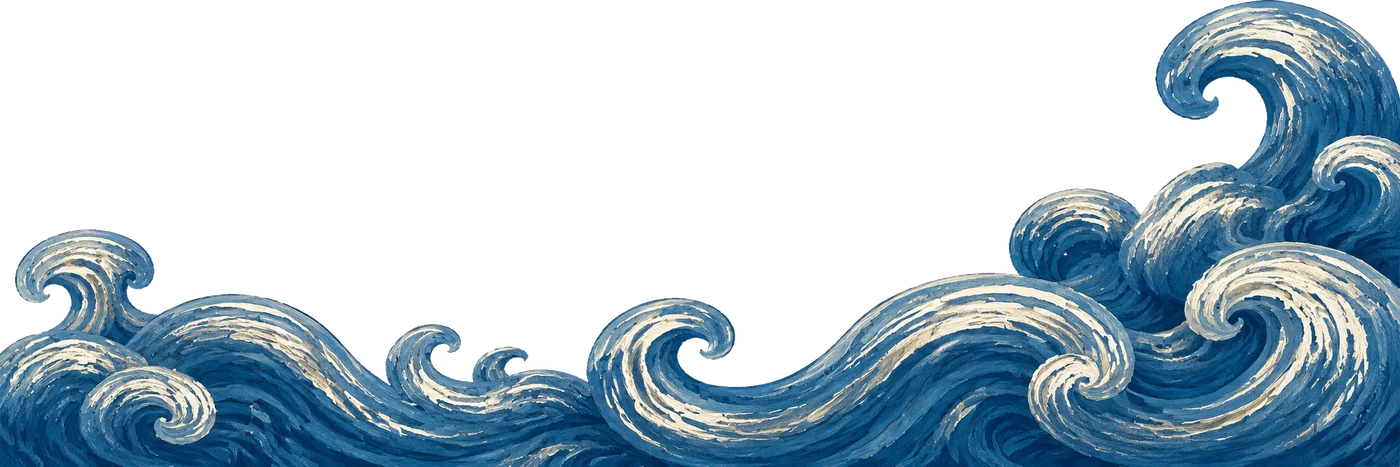
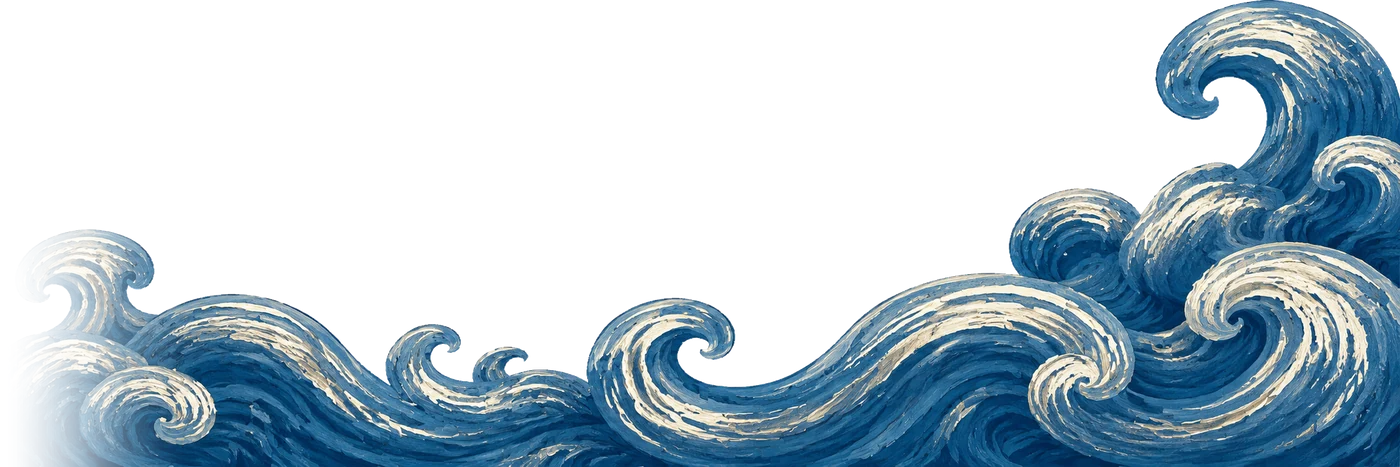
Season decoration: full-screen art layer, no clipping, new sizes
Claude-Session: https://claude.ai/code/session_01K7sh3updA1Gv7rDmww3wbS

Changed region(s): [[0.0, 0.4797, 0.1229, 1.0]]

diff --git a/src/components/SeasonDecor.tsx b/src/components/SeasonDecor.tsx
@@ -2,7 +2,7 @@
 import { viewHeight } from "@/lib/view-height";
 import { memo, useEffect, useLayoutEffect, useMemo, useRef, useState, type CSSProperties, type RefObject } from "react";
 import { SEASON_DECOR as C, DECOR_ART, LAYER_Z } from "@/config/season-decor";
-import { artLayerStyle, decorClip, decorWindow, parseDecorMode, type DecorSeason } from "@/lib/season-decor";
+import { artClip, artLayerStyle, decorClip, decorWindow, parseDecorMode, type DecorSeason } from "@/lib/season-decor";
 import Mannequin from "./Mannequin";
 import type { MannequinSpec } from "@/lib/mannequin";
 import { DECO_BITMAP_SIZE, decoPx, leafMarkup, meadowMarkup, snap, snowMarkup, spotPieces, sunMarkup, sunPx } from "@/lib/season-decor-art";
@@ -37,18 +37,18 @@ function Spots({ kind, width, height }: { kind: "autumn" | "winter"; width: numb
 
 /** painted illustrations (default): plain img layers, absolute inside the group, so no layout shift; all sprites are preloaded once. */
 const ART_SRCS = Object.values(DECOR_ART).flat().map((l) => l.src);
-function ArtLayers({ season, safeTop }: { season: DecorSeason; safeTop: boolean }) {
-  return <>{DECOR_ART[season].map((l) => /* eslint-disable-next-line @next/next/no-img-element */ <img key={l.src} src={l.src} alt="" decoding="async" draggable={false} style={artLayerStyle(l, safeTop)} />)}</>;
+function ArtLayers({ season }: { season: DecorSeason }) {
+  return <>{DECOR_ART[season].map((l) => /* eslint-disable-next-line @next/next/no-img-element */ <img key={l.src} src={l.src} alt="" decoding="async" draggable={false} style={artLayerStyle(l)} />)}</>;
 }
 
-const Art = ({ season, width, height, sun, safeTop, mode }: { season: DecorSeason; width: number; height: number; sun: boolean; safeTop: boolean; mode: "art" | "pixel" }) =>
-  mode === "art" ? <ArtLayers season={season} safeTop={safeTop} /> : season === "summer" ? (sun ? <Sun safeTop={safeTop} /> : null) : season === "spring" ? <Meadow width={width} /> : <Spots kind={season} width={width} height={height} />;
+const Art = ({ season, width, height, sun, safeTop }: { season: DecorSeason; width: number; height: number; sun: boolean; safeTop: boolean }) =>
+  season === "summer" ? (sun ? <Sun safeTop={safeTop} /> : null) : season === "spring" ? <Meadow width={width} /> : <Spots kind={season} width={width} height={height} />;
 
 /** `scroller` = the snap scroller the outfits live in (offset and height are read from it); `seasons[i]` = decoration of outfit i (null = none).
  *  `minis` = outfit preview figures (same clipping, drawn in front of the season art and still behind the products): `specs[i]` is outfit i's figure, `searchOn` places it over the Profile tab.
- *  `className`/`style` give the layer its box (same box as the scroller). `sunFront`: the layer starts under the status/safe area (feed), so the sun is offset by it. Everything sits behind the products (no z-index). */
-function SeasonDecor({ scroller, seasons, minis, className, style, sunFront }: { scroller: RefObject<HTMLElement | null>; seasons: (DecorSeason | null)[] | null; minis?: { specs: MannequinSpec[]; searchOn: boolean } | null; className: string; style?: CSSProperties; sunFront?: boolean }) {
-  const root = useRef<HTMLDivElement>(null);
+ *  `className`/`style` give the figure/pixel layer its box (same box as the scroller). ART mode (default) is a separate layer `artClassName`/`artStyle` = the whole screen (feed: fixed inset-0, like the stripe background), clipped only by the screen edge. `sunFront`: the layer starts under the status/safe area (feed), so the sun is offset by it. Everything sits behind the products (no z-index). */
+function SeasonDecor({ scroller, seasons, minis, className, style, sunFront, artClassName, artStyle }: { scroller: RefObject<HTMLElement | null>; seasons: (DecorSeason | null)[] | null; minis?: { specs: MannequinSpec[]; searchOn: boolean } | null; className: string; style?: CSSProperties; sunFront?: boolean; artClassName?: string; artStyle?: CSSProperties }) {
+  const root = useRef<HTMLDivElement>(null), artBox = useRef<HTMLDivElement>(null), geo = useRef({ off: 0, layerH: 0 });
   const [win, setWin] = useState<number[]>([]);
   const [size, setSize] = useState({ w: 0, h: 0 });
   const mode = useMemo(() => (typeof window === "undefined" ? "art" : parseDecorMode(new URLSearchParams(window.location.search).get("decor"))), []);
@@ -58,11 +58,20 @@ function SeasonDecor({ scroller, seasons, minis, className, style, sunFront }: {
   const apply = () => {   // clip every group to where its outfit is on screen (direct DOM writes)
     const sc = scroller.current, el = root.current; if (!sc || !el) return;
     const h = viewHeight(sc), st = sc.scrollTop;
+    el.querySelectorAll<HTMLElement>(".sd-art").forEach((g) => {
+      const c = artClip(Number(g.dataset.i), st, h, geo.current.off, geo.current.layerH);
+      g.style.clipPath = c ? `inset(${c.top}px 0px ${c.bottom}px 0px)` : "";
+      g.style.visibility = c ? "" : "hidden";
+    });
     el.querySelectorAll<HTMLElement>(".sd-group").forEach((g) => {
       const c = decorClip(Number(g.dataset.i), st, h);
       g.style.clipPath = c ? `inset(${c.top}px 0px ${c.bottom}px 0px)` : "";
       g.style.visibility = c ? "" : "hidden";
     });
+  };
+  const measure = () => {   // where the scroller sits inside the full-screen art layer (only on resize, never per scroll frame)
+    const sc = scroller.current, box = artBox.current; if (!sc || !box) return;
+    geo.current = { off: sc.getBoundingClientRect().top - box.getBoundingClientRect().top, layerH: box.clientHeight };
   };
   const sync = () => {
     const sc = scroller.current; if (!sc) return;
@@ -72,27 +81,31 @@ function SeasonDecor({ scroller, seasons, minis, className, style, sunFront }: {
     apply();
   };
   const syncRef = useRef(sync); syncRef.current = sync;
+  const measureRef = useRef(measure); measureRef.current = measure;
 
   useEffect(() => {
     const sc = scroller.current; if (!sc) return;
-    const on = () => syncRef.current();
+    const on = () => syncRef.current(), onSize = () => { measureRef.current(); on(); };
     sc.addEventListener("scroll", on, { passive: true });
-    const ro = new ResizeObserver(on); ro.observe(sc);
-    on();
+    const ro = new ResizeObserver(onSize); ro.observe(sc); if (artBox.current) ro.observe(artBox.current);
+    onSize();
     return () => { sc.removeEventListener("scroll", on); ro.disconnect(); };
   }, [scroller]);
   useEffect(() => { syncRef.current(); }, [count, seasons, minis]);   // new outfits appended / list replaced
-  useLayoutEffect(() => { apply(); });   // freshly mounted groups get their clip before the first paint
+  useLayoutEffect(() => { measure(); apply(); });   // freshly mounted groups get their clip before the first paint
 
   const shown = win.filter((i) => seasons?.[i] || minis?.specs[i]);
   const group = (i: number, sun: boolean) => (
     <div key={`${i}-${seasons?.[i]}`} data-i={i} className="sd-group absolute inset-0">
-      {seasons?.[i] && <div className="absolute inset-0" style={{ zIndex: LAYER_Z.decor }}><Art season={seasons[i]!} width={size.w} height={size.h} sun={sun} safeTop={!!sunFront} mode={mode} /></div>}
+      {mode === "pixel" && seasons?.[i] && <div className="absolute inset-0" style={{ zIndex: LAYER_Z.decor }}><Art season={seasons[i]!} width={size.w} height={size.h} sun={sun} safeTop={!!sunFront} /></div>}
       {minis?.specs[i] && <div className="absolute inset-0" style={{ zIndex: LAYER_Z.figure }}><Mannequin spec={minis.specs[i]} layerWidth={size.w} searchOn={minis.searchOn} /></div>}
     </div>
   );
   return (
     <div ref={root} aria-hidden style={{ display: "contents" }}>
+      {mode === "art" && <div ref={artBox} className={`pointer-events-none overflow-hidden ${artClassName ?? className}`} style={{ ...(artClassName ? artStyle : style), zIndex: LAYER_Z.decor }}>
+        {shown.filter((i) => seasons?.[i]).map((i) => <div key={`${i}-${seasons?.[i]}`} data-i={i} className="sd-art absolute inset-0"><ArtLayers season={seasons![i]!} /></div>)}
+      </div>}
       <div className={`pointer-events-none ${className}`} style={{ ...style, zIndex: LAYER_Z.figure }}>{shown.map((i) => group(i, true))}</div>
     </div>
   );

diff --git a/src/config/season-decor.ts b/src/config/season-decor.ts
@@ -35,18 +35,23 @@ export const SEASON_DECOR = {
 // Named z-index constants; SeasonDecor, Feed and the layer test use them. The decoration is BACKGROUND: it sits behind the figure and behind every product.
 export const LAYER_Z = { stripe: 0, decor: 5, figure: 10, products: 20, chrome: 30 } as const;
 
-// ART MODE (default since Prompt 82: 5 illustrations): painted sprites instead of the pixel art above (kept as `?decor=pixel`). Files in public/season-decor/, made by
+// ART MODE (default since Prompt 82: illustrations): painted sprites instead of the pixel art above (kept as `?decor=pixel`). Files in public/season-decor/, made by
 // scripts/build-season-decor.py from docs/reference/season-decor-source/*.png (border flood-fill keying, tolerances live in that script).
-// Layer box = the decor area (same box as the feed scroller). Size: widthPct of the area width OR heightPct of the area height (the other side follows the
-// sprite's aspect). offsetXPct / offsetYPct move the sprite from its anchor (positive = right / down, negative = cropped by the edge), in % of the area.
+// Layer box = the WHOLE SCREEN (same full-screen anchoring as the stripe background: behind status bar, header and tab bar). It is clipped only by the real screen edge,
+// never by the content area, the outfit area or LAYOUT_SAFE_MARGIN. Size: widthPct of the SCREEN width OR heightPct of the SCREEN height (the other side follows the
+// sprite's aspect). offsetXPct / offsetYPct move the sprite from its anchor, in % of the screen: positive = right / down for left- and top-anchored sprites,
+// for right- / bottom-anchored ones positive = further out (bleeds off that edge); negative = back inside.
 export type DecorAnchor = "top-left" | "top" | "top-right" | "left" | "right" | "bottom-left" | "bottom" | "bottom-right";
 export type DecorLayer = { src: string; anchor: DecorAnchor; widthPct?: number; heightPct?: number; offsetXPct: number; offsetYPct: number; opacity: number; zIndex: number };
 export const DECOR_ART: Record<"spring" | "summer" | "autumn" | "winter", DecorLayer[]> = {
   summer: [
-    { src: "/season-decor/summer_sun.webp", anchor: "top-left", widthPct: 42, offsetXPct: -10, offsetYPct: -4, opacity: 1, zIndex: 2 },
-    { src: "/season-decor/summer_wave.webp", anchor: "bottom-right", heightPct: 16, offsetXPct: 0, offsetYPct: 0, opacity: 1, zIndex: 1 },
+    { src: "/season-decor/summer_sun.webp", anchor: "top-left", widthPct: 30, offsetXPct: -4, offsetYPct: 18, opacity: 1, zIndex: 2 },   // below the icon row, left edge slightly cropped
+    { src: "/season-decor/summer_wave.webp", anchor: "bottom-right", widthPct: 70, offsetXPct: 2, offsetYPct: 2, opacity: 1, zIndex: 1 },   // bleeds off right + bottom; left side fades out in the sprite
   ],
-  spring: [{ src: "/season-decor/spring_meadow.webp", anchor: "bottom", heightPct: 14, offsetXPct: 0, offsetYPct: 0, opacity: 1, zIndex: 1 }],
-  autumn: [{ src: "/season-decor/autumn_tree.webp", anchor: "bottom-left", heightPct: 75, offsetXPct: -6, offsetYPct: 0, opacity: 1, zIndex: 1 }],
-  winter: [{ src: "/season-decor/winter_clouds.webp", anchor: "top", heightPct: 30, offsetXPct: 0, offsetYPct: 0, opacity: 1, zIndex: 1 }],
+  spring: [{ src: "/season-decor/spring_meadow.webp", anchor: "bottom", widthPct: 100, offsetXPct: 0, offsetYPct: 0, opacity: 1, zIndex: 1 }],   // full width, flush bottom (about 12% of the height on a phone)
+  autumn: [{ src: "/season-decor/autumn_tree.webp", anchor: "bottom-left", heightPct: 60, offsetXPct: 0, offsetYPct: 0, opacity: 1, zIndex: 1 }],
+  winter: [
+    { src: "/season-decor/winter_clouds.webp", anchor: "top", heightPct: 14, offsetXPct: 0, offsetYPct: -1, opacity: 1, zIndex: 1 },   // wider than the screen on a phone, so it bleeds off the sides and the top
+    { src: "/season-decor/winter_flakes.webp", anchor: "top-right", widthPct: 62, offsetXPct: 0, offsetYPct: 12, opacity: 1, zIndex: 2 },   // own, small scale: biggest flake about 6% of the screen width; right side keeps the icon row clear
+  ],
 };

diff --git a/src/lib/season-decor.ts b/src/lib/season-decor.ts
@@ -36,15 +36,22 @@ export const effectiveSeason = (link: string | null, localOn: boolean): boolean 
 export type DecorMode = "art" | "pixel";
 export const parseDecorMode = (link: string | null | undefined): DecorMode => (link === "pixel" ? "pixel" : "art");
 
-/** CSS box of one art layer inside the decor area. `safeTop` / `safeBottom` add the status-bar inset / the tab-bar inset (--safe-b) to the matching edge. */
-export function artLayerStyle(l: DecorLayer, safeTop: boolean): Record<string, string | number> {
+/** CSS box of one art layer inside the full-screen decor layer (top/bottom/left/right = the real screen edges, no safe-area inset). */
+export function artLayerStyle(l: DecorLayer): Record<string, string | number> {
   const a: DecorAnchor = l.anchor, st: Record<string, string | number> = { position: "absolute", opacity: l.opacity, zIndex: l.zIndex, maxWidth: "none" };
   if (l.widthPct != null) { st.width = `${l.widthPct}%`; st.height = "auto"; } else { st.height = `${l.heightPct ?? 0}%`; st.width = "auto"; }
   const top = a.startsWith("top"), bottom = a.startsWith("bottom"), left = a.endsWith("left") || a === "left", right = a.endsWith("right") || a === "right";
   const ox = `${left ? l.offsetXPct : right ? -l.offsetXPct : l.offsetXPct}%`, oy = `${top ? l.offsetYPct : -l.offsetYPct}%`;
-  if (top) st.top = safeTop ? `calc(env(safe-area-inset-top, 0px) + ${oy})` : oy;
-  else if (bottom) st.bottom = `calc(var(--safe-b, 0px) + ${oy})`;
-  else { st.top = "50%"; st.transform = "translateY(-50%)"; }
+  if (top) st.top = oy; else if (bottom) st.bottom = oy; else { st.top = "50%"; st.transform = "translateY(-50%)"; }
   if (left) st.left = ox; else if (right) st.right = ox; else { st.left = "50%"; st.transform = `${st.transform ?? ""} translateX(-50%)`.trim(); }
   return st;
+}
+
+/** Clip of outfit `index`'s ART group inside the full-screen layer. The scroller sits `off` px below the layer's top and is `h` px tall (one outfit = h).
+ *  Only the edge that borders a neighbouring outfit is cut (that line moves with the swipe); at rest nothing is cut, so the art runs to the real screen edges. null = hidden. */
+export function artClip(index: number, scrollTop: number, h: number, off: number, layerH: number): { top: number; bottom: number } | null {
+  if (!(h > 0)) return null;
+  const y0 = index * h - scrollTop, y1 = y0 + h;
+  if (y1 <= 0 || y0 >= h) return null;
+  return { top: y0 > 0 ? Math.max(0, off + y0) : 0, bottom: y1 < h ? Math.max(0, layerH - (off + y1)) : 0 };
 }

diff --git a/tests/season-decor-art.test.ts b/tests/season-decor-art.test.ts
@@ -2,7 +2,7 @@ import { test } from "node:test";
 import assert from "node:assert/strict";
 import { existsSync } from "node:fs";
 import { DECOR_ART, LAYER_Z } from "../src/config/season-decor";
-import { artLayerStyle, parseDecorMode } from "../src/lib/season-decor";
+import { artClip, artLayerStyle, parseDecorMode } from "../src/lib/season-decor";
 
 for (const [season, layers] of Object.entries(DECOR_ART)) {
   test(`${season} has layers with existing files and sane sizes`, () => {
@@ -10,14 +10,25 @@ for (const [season, layers] of Object.entries(DECOR_ART)) {
     for (const l of layers) {
       assert.ok(existsSync(`public${l.src}`), l.src);
       assert.ok(l.widthPct != null || l.heightPct != null);
-      assert.ok((l.widthPct ?? 0) <= 100 && (l.heightPct ?? 0) <= 100);
+      assert.ok((l.widthPct ?? 0) <= 100 && (l.heightPct ?? 0) <= 100);   // screen-relative: never larger than the screen in its sized dimension
+      assert.ok(Math.abs(l.offsetXPct) <= 20 && Math.abs(l.offsetYPct) <= 30, "offsets stay sensible");
+      assert.ok(!(l.widthPct != null && l.heightPct != null), "one size dimension only (no stretching)");
       assert.ok(l.opacity > 0 && l.opacity <= 1);
     }
   });
 }
-test("style per anchor", () => {
-  assert.equal(artLayerStyle(DECOR_ART.autumn[0], true).left, `${DECOR_ART.autumn[0].offsetXPct}%`);
-  assert.ok(String(artLayerStyle(DECOR_ART.winter[0], true).top).includes("safe-area-inset-top"));
+test("style per anchor: screen edges, no safe-area inset", () => {
+  const t = artLayerStyle(DECOR_ART.autumn[0]);
+  assert.equal(t.left, `${DECOR_ART.autumn[0].offsetXPct}%`);
+  assert.equal(t.bottom, "0%");
+  for (const layers of Object.values(DECOR_ART)) for (const l of layers) assert.ok(!JSON.stringify(artLayerStyle(l)).includes("env("));
+  assert.equal(artLayerStyle(DECOR_ART.winter[0]).top, `${DECOR_ART.winter[0].offsetYPct}%`);
+});
+test("art clip: nothing cut at rest, only the border to a neighbour moves", () => {
+  assert.deepEqual(artClip(3, 3 * 800, 800, 50, 900), { top: 0, bottom: 0 });
+  assert.equal(artClip(2, 3 * 800, 800, 50, 900), null);
+  assert.deepEqual(artClip(3, 3 * 800 + 200, 800, 50, 900), { top: 0, bottom: 900 - (50 + 600) });   // swiping to the next: this outfit's bottom edge rises
+  assert.deepEqual(artClip(4, 3 * 800 + 200, 800, 50, 900), { top: 50 + 600, bottom: 0 });
 });
 test("?decor parameter: pixel only on 'pixel'", () => {
   assert.equal(parseDecorMode("pixel"), "pixel");

diff --git a/src/components/Feed.tsx b/src/components/Feed.tsx
@@ -451,7 +451,7 @@ export default function Feed({ defaults }: { defaults?: { feed: "base" | "dynami
       <SaleInkDefs />
       <Layer active={layers.feedActive} shiftPx={0}>
         {stripeOn && obPhase === "off" && <StripeBackground mode={stripeMode} colors={stripeColors} seed={String(shown[railIdx]?.id ?? "")} className="fixed inset-0" style={{ zIndex: LAYER_Z.stripe }} />}
-        {(seasonOn || miniOn) && obPhase === "off" && <SeasonDecor scroller={scroller} seasons={seasonOn ? seasons : null} minis={minis} className="fixed inset-x-0 top-0" style={DECOR_BOX} sunFront />}
+        {(seasonOn || miniOn) && obPhase === "off" && <SeasonDecor scroller={scroller} seasons={seasonOn ? seasons : null} minis={minis} className="fixed inset-x-0 top-0" style={DECOR_BOX} sunFront artClassName="fixed inset-0" />}
         <header className={glassUi ? "fixed z-30 flex items-center justify-between px-3 pb-2 pt-2" : "fixed inset-x-0 top-0 z-30 flex items-center justify-between bg-white/90 px-4 pb-2 pt-[max(0.75rem,env(safe-area-inset-top))] backdrop-blur"}
           style={glassUi ? { ...glassPieceStyle(glassUi || "colorful"), paddingLeft: STRIPE_BG.glass.capsulePadPx, paddingRight: STRIPE_BG.glass.capsulePadPx, left: STRIPE_BG.glass.marginPx, right: STRIPE_BG.glass.marginPx, top: "max(0.25rem, calc(env(safe-area-inset-top) - 0.25rem))" } : undefined}>
           <span className="w-16 text-lg font-semibold tracking-tight">Drape</span>

diff --git a/scripts/build-season-decor.py b/scripts/build-season-decor.py
@@ -4,7 +4,9 @@ Plain Python (Pillow + numpy; sharp is not installed), outside the type-checked 
 Method: (1) flood-fill from the image borders over connected near-white pixels (TOL = max channel distance to white) = background; enclosed pale
 pixels (foam, snowflake cores, daisies) are never touched because they are not connected to the border through near-white. (2) Alpha ramp on the
 pixels next to the background (BAND px): alpha = smoothstep((distance to white - RAMP_LO) / (RAMP_HI - RAMP_LO)). (3) Un-matte against white:
-c = (c - (1-a)*255) / a, clamped, so no white halo shows on coloured backgrounds. (4) trim, resize to MAX_EDGE, WebP with alpha."""
+c = (c - (1-a)*255) / a, clamped, so no white halo shows on coloured backgrounds. (4) trim, resize to MAX_EDGE, WebP with alpha.
+Post steps (Prompt 83): winter_clouds is split into winter_clouds (the big cloud shapes) and winter_flakes (everything small: snowflakes + dots) so the flakes get their
+own, smaller scale in the config; summer_wave gets a soft alpha fade over its left WAVE_FADE share so it has no vertical left edge on screen."""
 import sys
 import numpy as np
 from PIL import Image, ImageDraw, ImageFilter
@@ -12,6 +14,8 @@ from PIL import Image, ImageDraw, ImageFilter
 SRC = "docs/reference/season-decor-source"
 OUT = "public/season-decor"
 MAX_EDGE = 1400
+WAVE_FADE = 0.14      # share of the wave's width (from the left) that fades from transparent to opaque
+CLOUD_MIN_PX = 20000  # winter: connected shapes (after closing small gaps) with at least this many px are clouds, smaller ones flakes
 # tol: border flood-fill tolerance (max channel distance to white); lo/hi: alpha ramp on the edge band (distance to white); band: edge band width in px
 SPRITES = {
     "summer_sun": dict(tol=14, lo=10, hi=60, band=3),
@@ -62,6 +66,43 @@ def key(rgb, o):
     f = np.clip((rgb - (1 - a[..., None]) * 255) / af, 0, 255)
     return np.where(a[..., None] >= 0.999, rgb, f), a
 
+def components(mask):
+    """4-connected components of a boolean mask -> label array (0 = none), plain Python flood fill (no scipy)"""
+    h, w = mask.shape
+    m = mask.ravel().tolist(); lab = [0] * (h * w); n = 0
+    for s0 in range(h * w):
+        if not m[s0] or lab[s0]: continue
+        n += 1; st = [s0]
+        while st:
+            i = st.pop()
+            if lab[i] or not m[i]: continue
+            lab[i] = n; x = i % w
+            if x > 0: st.append(i - 1)
+            if x < w - 1: st.append(i + 1)
+            if i >= w: st.append(i - w)
+            if i < (h - 1) * w: st.append(i + w)
+    return np.array(lab).reshape(h, w), n
+
+def split_winter(img):
+    a = np.array(img.getchannel("A"))
+    closed = np.array(Image.fromarray(((a > 8) * 255).astype(np.uint8)).filter(ImageFilter.MaxFilter(9))) > 127
+    lab, n = components(closed)
+    big = np.zeros(n + 1, bool)
+    for k, c in enumerate(np.bincount(lab.ravel(), minlength=n + 1)):
+        big[k] = k > 0 and c >= CLOUD_MIN_PX
+    cloud = big[lab]
+    px = np.array(img); out = []
+    for keep in (cloud, ~cloud):
+        q = px.copy(); q[..., 3] = np.where(keep, q[..., 3], 0)
+        im = Image.fromarray(q, "RGBA"); out.append(im.crop(im.getchannel("A").point(lambda v: 255 if v > 8 else 0).getbbox()))
+    return out
+
+def fade_left(img, share):
+    q = np.array(img).astype(float); w = q.shape[1]; k = max(1, int(w * share))
+    ramp = np.clip(np.arange(w) / k, 0, 1); ramp = ramp * ramp * (3 - 2 * ramp)
+    q[..., 3] *= ramp[None, :]
+    return Image.fromarray(q.astype(np.uint8), "RGBA")
+
 def main():
     prev = sys.argv[sys.argv.index("--preview") + 1] if "--preview" in sys.argv else None
     for name, o in SPRITES.items():
@@ -72,10 +113,14 @@ def main():
         img = img.crop(bb)
         if max(img.size) > MAX_EDGE:
             s = MAX_EDGE / max(img.size); img = img.resize((round(img.width * s), round(img.height * s)), Image.LANCZOS)
-        img.save(f"{OUT}/{name}.webp", "WEBP", quality=88, alpha_quality=95, method=6)
-        print(name, img.size)
-        if prev:
-            for tag, col in (("white", (255, 255, 255)), ("grey", (128, 128, 128)), ("dark", (20, 40, 90))):
-                b = Image.new("RGBA", img.size, col + (255,)); b.alpha_composite(img); b.convert("RGB").save(f"{prev}/{name}_{tag}.png")
+        parts = {name: img}
+        if name == "winter_clouds": parts = dict(zip(("winter_clouds", "winter_flakes"), split_winter(img)))
+        if name == "summer_wave": parts = {name: fade_left(img, WAVE_FADE)}
+        for nm, im in parts.items():
+            im.save(f"{OUT}/{nm}.webp", "WEBP", quality=88, alpha_quality=95, method=6)
+            print(nm, im.size)
+            if prev:
+                for tag, col in (("white", (255, 255, 255)), ("grey", (128, 128, 128)), ("dark", (20, 40, 90))):
+                    b = Image.new("RGBA", im.size, col + (255,)); b.alpha_composite(im); b.convert("RGB").save(f"{prev}/{nm}_{tag}.png")
 
 main()

diff --git a/CLAUDE.md b/CLAUDE.md
@@ -79,7 +79,7 @@ Scalability is very important to the user. Design for millions of products and u
 - **Wishlist background (display only):** Generate Outfits, My Outfits list + editor show `public/backgrounds/wishlist.webp` (900x1600, cover) via `WishlistBackground.tsx` (absolute layer outside the scroller, so it never moves); config `src/config/wishlist-background.ts` (`enabled`, `overlayOpacity` 0). Everything else stays white. User toggle "Drape Background" in Profile (`bg` in `drape.profile`, default on, device only, `useDrapeBackground` in `src/lib/client/background.ts`, `?bg=0|1` overrides); off = plain white.
 - **Season decoration (display only, pixel art since 2026-10-28):** one decoration per outfit by its dominant season = `dominantSeason(tags)` in `src/lib/season-decor.ts` (the season icon's `season_primary`; none for `all`, no tags or `season_fit` < `SEASON_DECOR.minFit` 0.4). Summer = 9x9 pixel corner sun at the right edge (`sun.topOffsetPx` 64 below the top of the outfit area, `sun.pxMult` 1), spring = flat pixel meadow strip + ~20 one-pixel blades above the tab bar (`--safe-b`), autumn pixel maple leaf (one colour `#c1352a`, `leaves.scale` 1) / winter snowflake (`#9db4c8`, `snow.scale` 0.6 = 60 % size) = 2 fixed places x up to `DECO_MAX_COUNT` (6; count 5) STATIC 16x16 pieces (no tilt, no animation), positions snapped to the deco pixel grid (`snap`). Deco pixel = `DECO_PX_MULT` (1.25) x figure pixel; bitmaps are 16x16 (since 2026-10-29), meadow blades vary in height/lean/tufts (`meadow.fringe/leanNone/bendRows/tuft` in `season-decor.ts`) (`MANNEQUIN.heightPx`/40). Bitmaps `SNOWFLAKE_BITMAP`/`LEAF_BITMAP`/`SUN_BITMAP` + meadow generator in `src/lib/season-decor-art.ts` (flat rects, crispEdges, memoized; shared run-merger `src/lib/pixel-art.ts`). Anchored to the SCREEN: `SeasonDecor.tsx` is one layer over the snap scroller holding the decorations of the nearest outfit + neighbours, each group clipped by `decorClip(index, scrollTop, h)` = `clip-path: inset` written straight to the DOM from the scroll event (no React render per frame; window re-render only at the halfway point). Behind the outfits, pointer-events none. Shown in the For You feed and Generate Outfits. Colours/positions in `src/config/season-decor.ts`. Profile toggle "Seasonal decoration" (`season` in `drape.profile`, default on, device only, `useSeasonDecor`), `?season=0|1` overrides. Tests `tests/season-decor.test.ts`.
 - **Stripe background (For You feed only, display only, Prompts 76-78):** "liquid glass": full-screen (edge to edge, behind status bar, header and bar; no panel, no rounded plate) colour-gradient layers (no blur/filter, crossfade on outfit change) + static crisp stripe overlay (`stops` list: 1 px bright edge, faint body, defined shade edge; fainter second layer period x1.37) + top-left specular highlight (`specular`). The stripes cover the WHOLE screen down to the physical bottom edge with the same flutes behind the glass bar (an earlier version ended them above the bar, which showed as a white band; the layer is `fixed inset-0`). BOTTOM CURVE: only the last `curve.zonePx` (26) px tilt the stripes gently left (up to `curve.maxDeg` 4, `curve.slices` rotated + shifted slices from `curveSlices`, static CSS transforms, no corner/gap). No quarter-circle bend. GREY GLASS PIECES: header and bottom bar (only while the switch is on, tab = For You, no onboarding; `glassUi` in `Feed.tsx`, `glass` prop of `BottomNav`) get `glassPieceStyle` (grey fill, 1 px light edge, specular, soft shadow, small radius, margin, refracted stripes = same layer boosted and shifted); tab text colours `glass.textOn/textOff`. Other tabs / switch off = unchanged white bar and header. Products, decor, figure, grass get no glass. CSS + static SVG only, no backdrop-filter/canvas. Colours = first `mq.col` of each product, top 2-3, neutrals dropped, normalised (`stripePalette`). Fixed layer `StripeBackground.tsx`, pointer-events none. Numbers in `src/config/stripe-bg.ts`. Profile selector "Stripe background" = Off | Colorful | Simple (`stripe` in `drape.profile`, `StripeMode`, default off, old boolean saves: true = colorful; `useStripeMode`), `?stripe=0|1|simple` overrides (1 = Colorful). Glass header + bar share `glassPieceStyle(mode)` and ONE translucency `glass.fillAlpha` (0.5). The old opaque-looking bar: the feed scroller ended above the bar, so nothing but the stripes was behind it; with the glass on the scroller now runs to the screen bottom (`100dvh`, sections keep height H, spacer = bar height; layout code measures `viewHeight(el)` = first section height, never `clientHeight`), so passing outfits show through the bar. SIMPLE (`STRIPE_BG.simple`): white -> light grey gradient plus organic grey blobs (`simple.grey`: count, darkCount, light/dark grey, alphas, softness, stretch, jitter, anchors; `greyBlobsCss(seed)` seeded by the outfit id, crossfades per outfit like Colorful), very faint grey-only stripes, lighter grey glass (`glassRgb`), no outfit colour, no product shadow or imprint (removed Prompt 80). CAPSULES (Prompt 80): header + tab bar glass are pills (`glass.capsule`, radius `CAPSULE_RADIUS` clamps to half the height; `glass.capsulePadPx` inner side padding), both modes. Tests `tests/stripe-bg.test.ts`.
-- **Season decor ART (Prompt 82, default):** 5 illustrations replace the pixel decoration (`?decor=pixel` = old look, link only, `parseDecorMode`). Sprites `public/season-decor/{summer_sun,summer_wave,spring_meadow,autumn_tree,winter_clouds}.webp`, config `DECOR_ART` in `src/config/season-decor.ts` (anchor, widthPct|heightPct of the decor area, offsets, opacity, zIndex; summer = sun top-left + wave bottom-right 16%, meadow 14%, tree 75% left, clouds 30% top). Originals in `docs/reference/season-decor-source/` (source only). Made by `scripts/build-season-decor.py` (Pillow+numpy, no sharp; border flood-fill keying, white un-matting, tolerances at the top of the script; enclosed white holes cleared only for the tree). LAYER ORDER = `LAYER_Z` (stripe 0 < decor 5 < figure 10 < products 20 < header/tab bar 30), tested in `tests/season-decor-art.test.ts`.
+- **Season decor ART (Prompt 82/83, default):** illustrations replace the pixel decoration (`?decor=pixel` = old look, link only). Sprites `public/season-decor/{summer_sun,summer_wave,spring_meadow,autumn_tree,winter_clouds,winter_flakes}.webp`, config `DECOR_ART` in `src/config/season-decor.ts` (anchor, ONE of widthPct|heightPct of the SCREEN, offsets in % of the screen, opacity, zIndex). The art is a FULL-SCREEN layer (`fixed inset-0` in the feed like the stripe background, separate from the figure layer; not clipped by the content area, outfit area, safe margin or tab bar; only the real screen edge cuts). The old cuts came from one `clip-path` per outfit group (`decorClip`) in the content box; art now uses `artClip` (only the edge bordering a neighbouring outfit is cut during a swipe, nothing at rest). Sprites made by `scripts/build-season-decor.py` (Pillow+numpy; also splits winter clouds/flakes and fades the wave's left edge). LAYER ORDER = `LAYER_Z` (stripe 0 < decor 5 < figure 10 < products 20 < header/tab bar 30), tested in `tests/season-decor-art.test.ts`.
 - **Outfit preview / mannequin (display only, pixel art since 2026-10-28; READY-MADE TEMPLATES since Prompt 74):** small flat pixel-art figure rendered INSIDE `SeasonDecor` (prop `minis`, same screen-anchored clip, in front of the meadow, behind products, pointer-events none; For You feed + Generate Outfits only). The shape is NOT computed per outfit: fixed 20-char-wide bitmaps in `src/config/pixel-figure.ts` (`TORSO_TEMPLATES` hoodie|jacket|tee, `HEAD_TEMPLATES` none|beanie|cap|hat, `FACE_TEMPLATES` sunglasses|glasses, each for men and women; legs `LEGS_OPS`, side pose + `BAG_OPS` stay ops), laid over the 20x40 grid in order legs, torso, head, face, bag (`figureGrid`, `src/lib/pixel-figure.ts`, markup memoized per templates + palette). The outfit only picks keys through plain lookup tables in the same config: `TORSO_BY_CATEGORY` (lower-case classification subcategory of the top, `mq.sub`, e.g. tshirt, hoodie, bomber jacket; unknown/missing = `TORSO_FALLBACK` hoodie; normalised by `torsoKey` in `src/lib/mannequin.ts`), `HEAD_BY_TYPE` (accessory type cap/beanie/hat), `FACE_BY_TYPE` (sunglasses/glasses), `BAG_TYPES`. First head / face / bag accessory wins. Women keep long hair + ponytail with no head item; with cap/beanie/hat only the ponytail end shows. Colours unchanged (`mannequinSpec` -> `FigureSpec`: top = B, bottom = P, shoes = W, head item = H/h, bag = X, zip z = shade of B, sunglasses/glasses constants in `PIXEL_COLORS`, `clampLight`, fallbacks). Other tunables: `PIXEL_FIGURE_POSE`, `DECO_PX_MULT`, `DECO_MAX_COUNT`, `PIXEL_GRID`. Size/position in `src/config/mannequin.ts` (height 92 px, centred over the Profile tab via `figureLeft`, `safeMarginPx` 8, feet `bottomGapPx` above the bar). Profile toggle "Outfit preview" (`mini`, default on, `useMiniPreview`), `?mini=0|1` overrides. PROMPT 75: torso templates also sweater / cardigan / sweatshirt (`TORSO_BY_CATEGORY` with real subcategories; unlisted category -> title words in `TORSO_KEYWORDS` via `keywordKey` in `mannequin.ts`, else hoodie); knee-length shorts legs (`SHORTS_OPS`, detected by `SHORTS_CATEGORIES` / `SHORTS_KEYWORDS`, `mq`-based, trousers otherwise); cap brim only on the LEFT (the old cap bitmap had an all-around brim; classifier also files caps as type "hat", so a "hat" with cap / beanie in its title is mapped by `HEAD_KEYWORDS`); torso pattern overlays (`PATTERN_BITMAPS` stripes|checks|dots|print, masked to torso B/b cells, colour keys Q/y = second colour `mq.col2` else darker/lighter main; chosen from `mq.pat` via `PATTERN_BY_ATTR`, else `PATTERN_KEYWORDS`). `mq` now also carries `col2` and `pat` (snapshot cards only). Tests `tests/mannequin.test.ts` (mapping tables, selection, template dimensions).
 - **Wishlist Products price:** `LikesView` shows current price + smaller grey struck-through `compare_at_cents` via `priceDisplay` (`src/lib/price-display.ts`); the old price only shows when on sale AND `useSaleMarker()` is on. Feed/Search/sheet untouched.
 - **Wishlist Products thumbnails + filter (display only):** thumbnails use the same cutout as the product sheet (`viewCard` auto, cutout on white, photo fallback). Chips All | Tops | Bottoms | Shoes | Accessories above the grid (`LikesView`, local state, reset when the tab is left): grouping by the card's `slot` (= feed_slot, follows category) in `LIKES_FILTER_GROUPS` (`src/config/likes-filter.ts`; top/full_body -> Tops, unmapped -> Accessories), logic `src/lib/likes-filter.ts`. Search has no liked list, so no filter there.

diff --git a/docs/prompt-log.md b/docs/prompt-log.md
@@ -84,3 +84,4 @@ One line per prompt: number, short content, commit on main if known. Sessions st
 - Prompt 80: Capsule (pill) glass header + tab bar; Simple mode: product shadows removed, organic grey blobs per outfit; last commit 7025167
 - Prompt 81: Seasonal decoration replaced by painted sprites (public/season-decor), `?decor=pixel` = old pixel look; last commit 2e61eef
 - Prompt 82: Seasonal decoration = 5 new illustrations (keyed by border flood-fill), named layer z-order constants (decor behind figure and products); last commit 7b1694e
+Prompt 83: season art decoration full-screen, no clipping; new sizes/positions; winter flakes split off; wave left fade (see commit on main).
